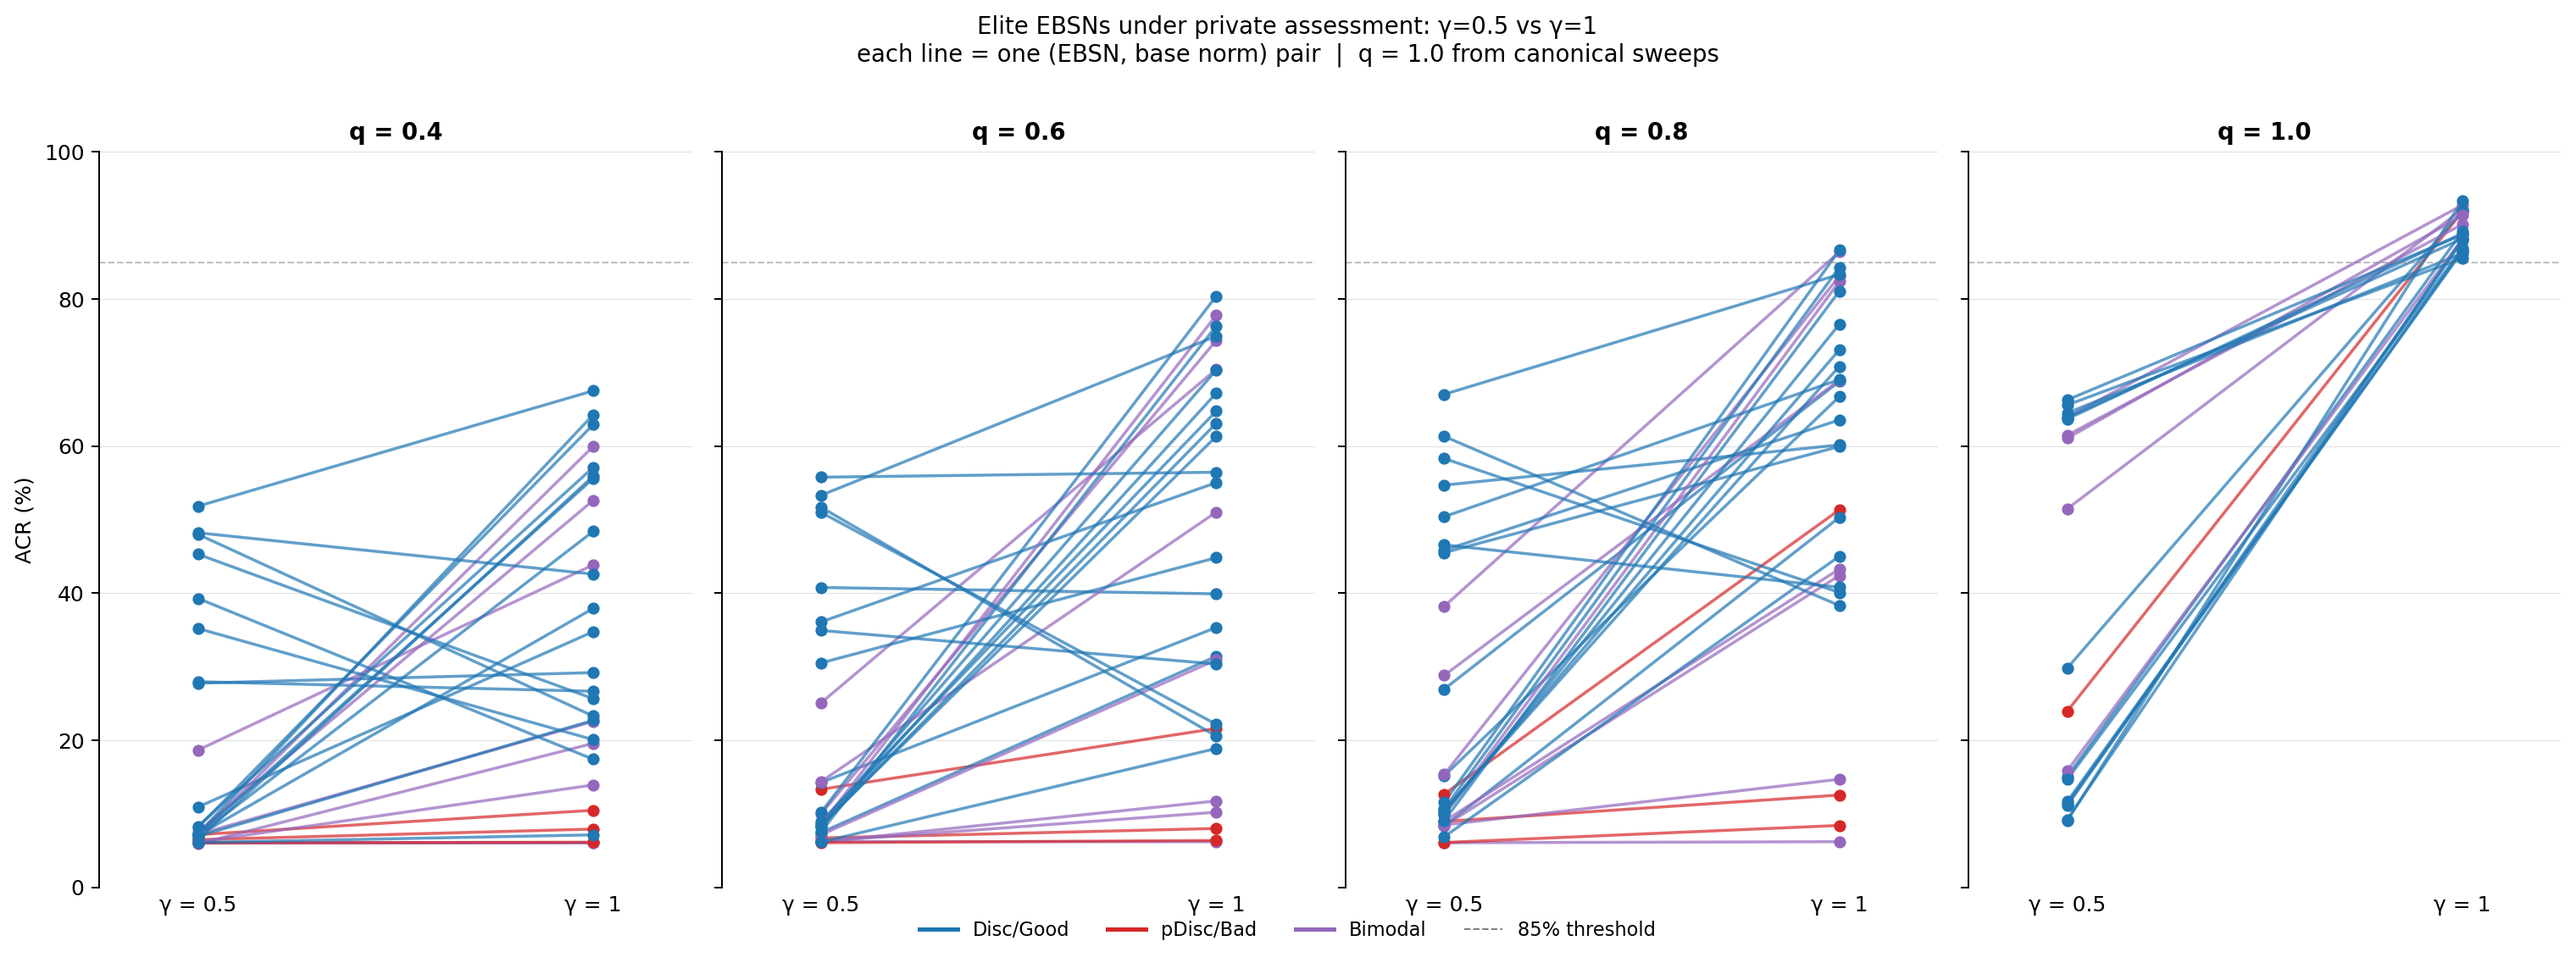
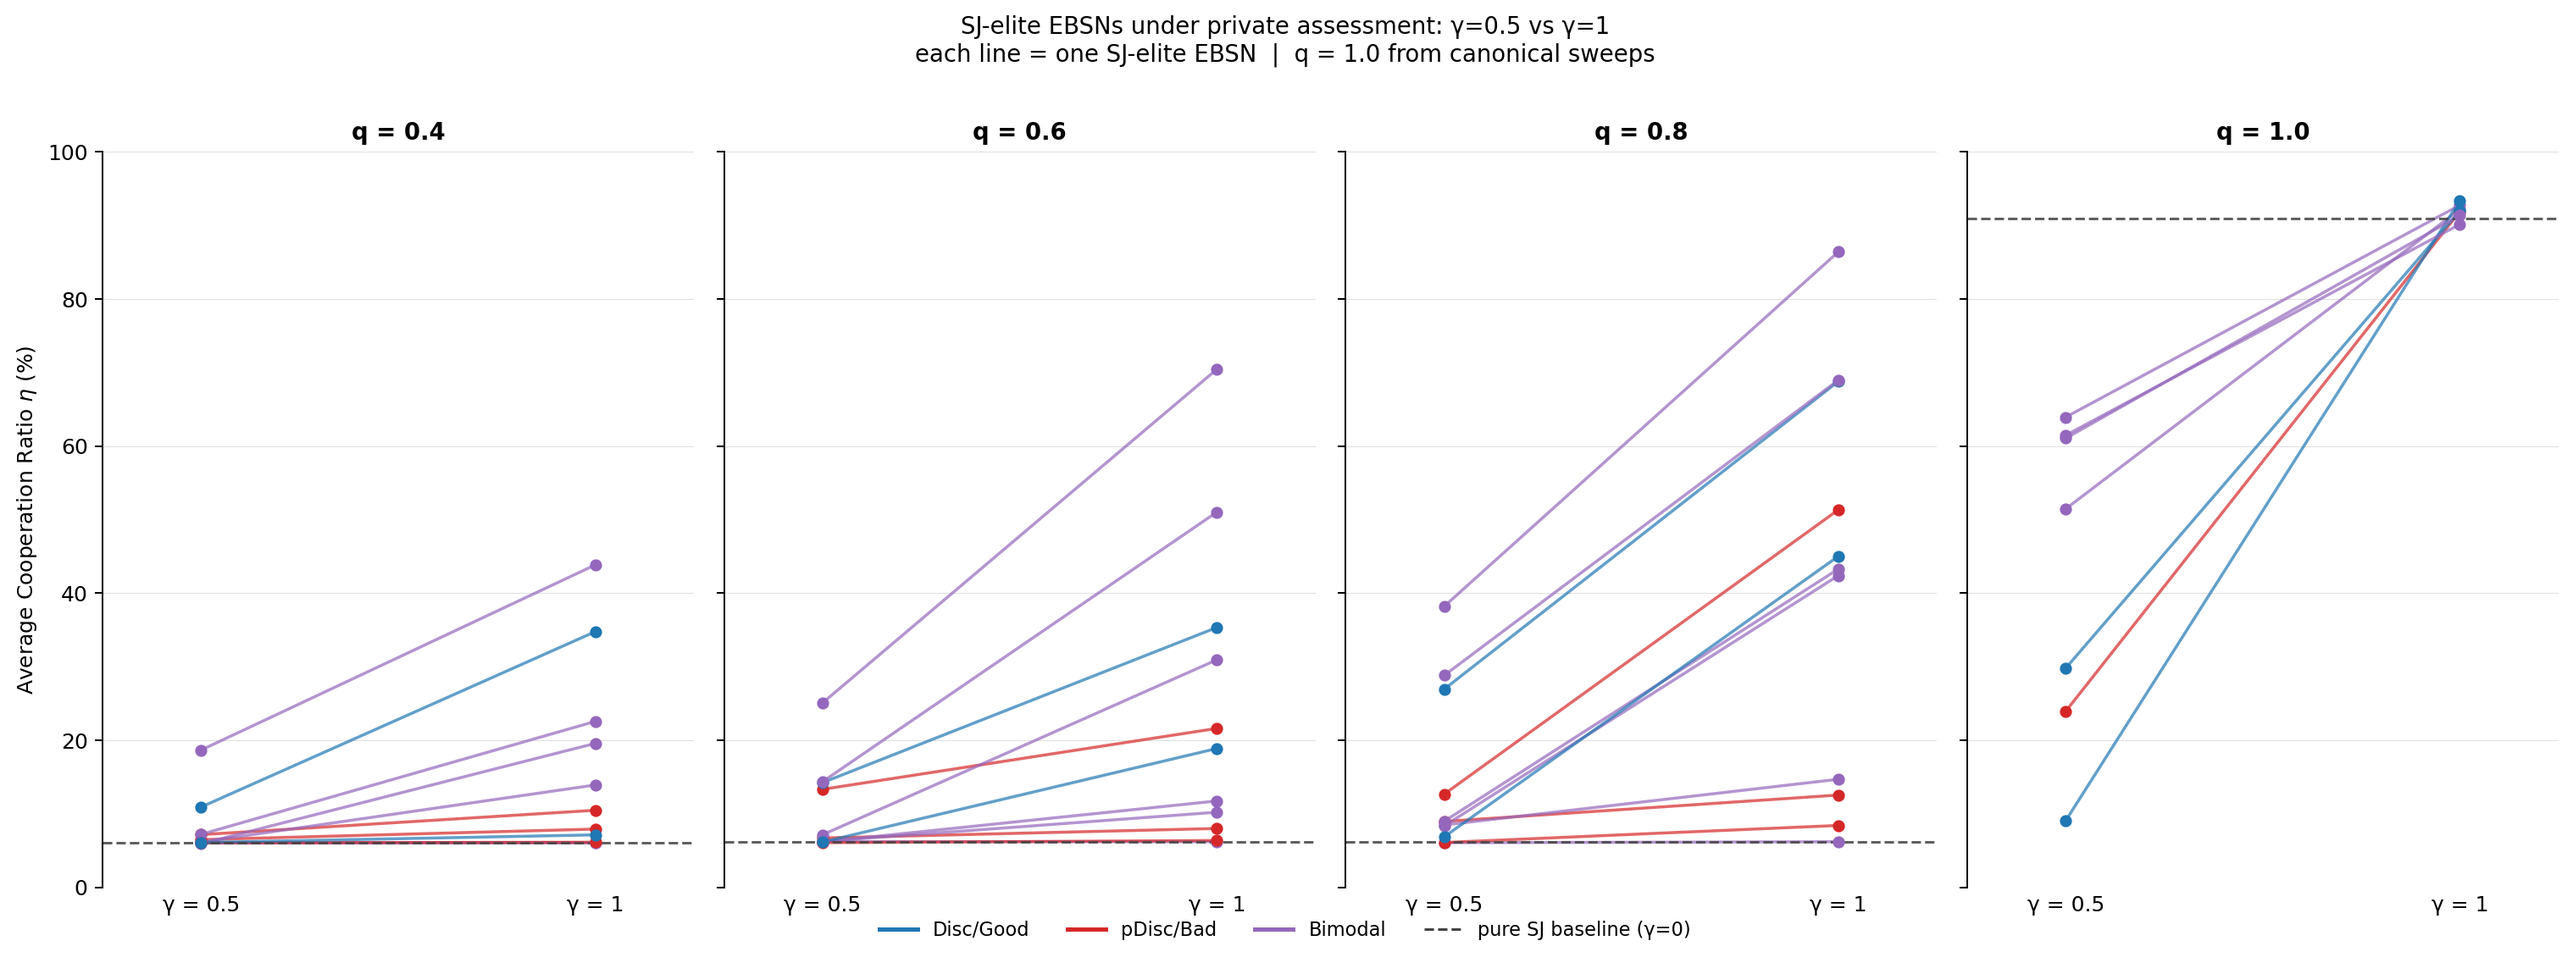
automatic update

diff --git a/plotting/private_assessment_plots.py b/plotting/private_assessment_plots.py
@@ -133,6 +133,26 @@ def load_q1_data(et: pd.DataFrame) -> pd.DataFrame:
     return pd.DataFrame(rows)
 
 
+def load_sj_baseline() -> dict[float, float]:
+    """Mean ACR (%) of pure Stern Judging (gamma=0) under private assessment, per q.
+
+    Produced by inputs/sj_baseline_private_assessment.yaml. This is the
+    reference curve that replaces the old flat 85% guide line: it shows SJ
+    alone collapsing as observability drops, motivating the Chapter 4.3 model.
+    """
+    path = OUTPUTS_DIR / "sj_baseline_private_assessment.csv"
+    if not path.exists():
+        print(f"WARNING: SJ baseline not found at {path} — run "
+              "`python SNARE.py inputs/sj_baseline_private_assessment.yaml` first.")
+        return {}
+    raw = pd.read_csv(path)
+    raw = raw[raw["q"] != "q"].copy()   # drop any repeated header rows
+    for col in ["q", "average_cooperation"]:
+        raw[col] = pd.to_numeric(raw[col], errors="coerce")
+    raw = raw.dropna(subset=["q", "average_cooperation"])
+    return raw.groupby("q")["average_cooperation"].mean().to_dict()
+
+
 def aggregate(df: pd.DataFrame) -> pd.DataFrame:
     return (
         df.groupby(
@@ -145,7 +165,7 @@ def aggregate(df: pd.DataFrame) -> pd.DataFrame:
 
 # ── Figure 1: Three-panel slopegraph ─────────────────────────────────────────
 
-def make_slopegraph(agg: pd.DataFrame) -> plt.Figure:
+def make_slopegraph(agg: pd.DataFrame, baseline: dict[float, float]) -> plt.Figure:
     """γ=0.5 → γ=1 slopegraph at each q level (4 columns, including q=1)."""
     fig, axes = plt.subplots(1, 4, figsize=(17, 6), sharey=True)
     fig.subplots_adjust(wspace=0.08)
@@ -172,13 +192,15 @@ def make_slopegraph(agg: pd.DataFrame) -> plt.Figure:
         ax.set_xticklabels(["γ = 0.5", "γ = 1"], fontsize=10)
         ax.set_xlim(-0.25, 1.25)
         ax.set_title(f"q = {q}", fontsize=11, fontweight="bold")
-        ax.axhline(85, color="grey", lw=0.8, ls="--", alpha=0.5)
+        base = baseline.get(q)
+        if base is not None:
+            ax.axhline(base, color="#444444", lw=1.2, ls="--", alpha=0.85, zorder=2)
         ax.set_ylim(0, 100)
         ax.grid(axis="y", lw=0.4, alpha=0.4)
         ax.spines[["top", "right", "bottom"]].set_visible(False)
         ax.tick_params(axis="x", length=0)
 
-    axes[0].set_ylabel("ACR (%)", fontsize=10)
+    axes[0].set_ylabel(r"Average Cooperation Ratio $\eta$ (%)", fontsize=10)
 
     # Legend
     handles = [
@@ -186,14 +208,15 @@ def make_slopegraph(agg: pd.DataFrame) -> plt.Figure:
         for eq in EQUIL_ORDER if eq in EQUIL_COLOURS
     ]
     handles.append(
-        mlines.Line2D([], [], color="grey", lw=0.8, ls="--", label="85% threshold")
+        mlines.Line2D([], [], color="#444444", lw=1.2, ls="--",
+                      label="pure SJ baseline (γ=0)")
     )
     fig.legend(handles=handles, loc="lower center", ncol=4,
                fontsize=9, frameon=False, bbox_to_anchor=(0.5, -0.02))
 
     fig.suptitle(
-        "Elite EBSNs under private assessment: γ=0.5 vs γ=1\n"
-        "each line = one (EBSN, base norm) pair  |  q = 1.0 from canonical sweeps",
+        "SJ-elite EBSNs under private assessment: γ=0.5 vs γ=1\n"
+        "each line = one SJ-elite EBSN  |  q = 1.0 from canonical sweeps",
         fontsize=11, y=1.01,
     )
     fig.tight_layout()
@@ -202,7 +225,7 @@ def make_slopegraph(agg: pd.DataFrame) -> plt.Figure:
 
 # ── Figure 2: Robustness line plot ───────────────────────────────────────────
 
-def make_robustness_plot(agg: pd.DataFrame) -> plt.Figure:
+def make_robustness_plot(agg: pd.DataFrame, baseline: dict[float, float]) -> plt.Figure:
     """ACR vs q per equilibrium type; solid = γ=1, dashed = γ=0.5."""
     n_eq  = len(EQUIL_ORDER)
     fig, axes = plt.subplots(1, n_eq, figsize=(13, 5), sharey=True)
@@ -211,6 +234,9 @@ def make_robustness_plot(agg: pd.DataFrame) -> plt.Figure:
     ls_map = {0.5: "--", 1.0: "-"}
     lw_ind = 0.9   # individual EBSN lines
     lw_avg = 2.5   # group mean
+
+    base_q   = sorted(baseline)
+    base_acr = [baseline[q] for q in base_q]
 
     for ax, eq in zip(axes, EQUIL_ORDER):
         col = EQUIL_COLOURS.get(eq, "#888888")
@@ -241,25 +267,31 @@ def make_robustness_plot(agg: pd.DataFrame) -> plt.Figure:
         ax.set_xticks([0.4, 0.6, 0.8, 1.0])
         ax.set_xlim(0.33, 1.07)
         ax.set_ylim(0, 100)
-        ax.axhline(85, color="grey", lw=0.8, ls=":", alpha=0.5)
+        if base_q:
+            ax.plot(base_q, base_acr, color="#444444", lw=1.6, ls=":",
+                    alpha=0.9, zorder=2)
+        ax.axhline(85, color="#888888", lw=1.0, ls="-.", alpha=0.7, zorder=2)
         ax.grid(axis="y", lw=0.4, alpha=0.4)
         ax.spines[["top", "right"]].set_visible(False)
 
-    axes[0].set_ylabel("ACR (%)", fontsize=10)
+    axes[0].set_ylabel(r"Average Cooperation Ratio $\eta$ (%)", fontsize=10)
 
     # Legend (one shared)
     solid  = mlines.Line2D([], [], color="grey", lw=2,   ls="-",  label="γ = 1")
     dashed = mlines.Line2D([], [], color="grey", lw=2,   ls="--", label="γ = 0.5")
-    thresh = mlines.Line2D([], [], color="grey", lw=0.8, ls=":",  label="85% threshold")
+    thresh = mlines.Line2D([], [], color="#444444", lw=1.6, ls=":",
+                           label="pure SJ baseline (γ=0)")
+    elite  = mlines.Line2D([], [], color="#888888", lw=1.0, ls="-.",
+                           alpha=0.7, label="elite threshold (85%)")
     fig.legend(
-        handles=[solid, dashed, thresh],
-        loc="lower center", ncol=3, fontsize=9,
+        handles=[solid, dashed, thresh, elite],
+        loc="lower center", ncol=4, fontsize=9,
         frameon=False, bbox_to_anchor=(0.5, -0.04),
     )
 
     fig.suptitle(
-        "Robustness of elite EBSNs under private assessment\n"
-        "thin = individual (EBSN, base norm) · thick = group mean",
+        "Robustness of SJ-elite EBSNs under private assessment\n"
+        "thin = individual EBSN · thick = group mean",
         fontsize=11, y=1.01,
     )
     fig.tight_layout()
@@ -270,32 +302,44 @@ def make_robustness_plot(agg: pd.DataFrame) -> plt.Figure:
 
 def main() -> None:
     df  = load_data()
+
+    # Restrict to EBSNs that are elite specifically under Stern Judging.
+    # Narrative: SJ fails under private assessment — we ask whether emotion
+    # helps in that regime, so the only relevant norms are SJ-elite ones.
+    df = df[df["base_norm"] == "Stern Judging"].copy()
+
     agg = aggregate(df)
 
-    # Append q=1 canonical data
+    # Append q=1 canonical data (SJ only)
     et = pd.read_csv(
         Path(__file__).parent / "plots" / "elite_table.csv",
         dtype={"8bit": str},
     )
     et["8bit"] = et["8bit"].str.zfill(8)
-    q1  = load_q1_data(et)
+    et_sj = et[et["base_norm"] == "Stern Judging"]
+    q1  = load_q1_data(et_sj)
+    q1  = q1[q1["base_norm"] == "Stern Judging"].copy()
     agg = pd.concat([agg, q1], ignore_index=True)
 
-    print(f"Loaded {len(df)} runs, {agg['label'].nunique()} unique EBSNs across "
-          f"{agg['base_norm'].nunique()} base norms")
-    print("Equilibrium counts (unique EBSN×base pairs):")
-    print(agg[["label","base_norm","equilibrium"]].drop_duplicates()
+    print(f"Loaded {len(df)} runs (SJ-elite only), {agg['label'].nunique()} unique EBSNs")
+    print("Equilibrium counts (unique EBSN pairs):")
+    print(agg[["label","equilibrium"]].drop_duplicates()
           ["equilibrium"].value_counts().to_string())
+
+    baseline = load_sj_baseline()
+    if baseline:
+        print("Pure-SJ baseline ACR (%) by q: "
+              + ", ".join(f"{q}: {baseline[q]:.1f}" for q in sorted(baseline)))
 
     PLOTS_DIR.mkdir(parents=True, exist_ok=True)
 
-    fig1 = make_slopegraph(agg)
+    fig1 = make_slopegraph(agg, baseline)
     p1   = PLOTS_DIR / "private_assessment_slopegraph.png"
     fig1.savefig(p1, dpi=180, bbox_inches="tight")
     plt.close(fig1)
     print(f"Saved: {p1}")
 
-    fig2 = make_robustness_plot(agg)
+    fig2 = make_robustness_plot(agg, baseline)
     p2   = PLOTS_DIR / "private_assessment_robustness.png"
     fig2.savefig(p2, dpi=180, bbox_inches="tight")
     plt.close(fig2)

diff --git a/plotting/slope_plots.py b/plotting/slope_plots.py
@@ -171,6 +171,7 @@ def plot_slope(
     *,
     color_by: str = "cooperative",
     threshold: float = THRESHOLD,
+    sj_baseline: float | None = None,
     ax: plt.Axes | None = None,
     figsize: tuple[float, float] = (5.5, 4.5),
     legend_loc: str = "upper left",
@@ -225,14 +226,24 @@ def plot_slope(
         ax.scatter([GAMMA_RIGHT], [row[GAMMA_RIGHT]],
                    color=colour, s=48, alpha=1.0, edgecolors="white", linewidths=0.5, zorder=5)
 
-    # 5) Baseline reference line
+    # 5) Baseline reference lines
+    # (a) SJ public-info benchmark: the flagship ceiling, shown in every panel
+    #     so the "no EBSN beats SJ under public info" claim is visually explicit
+    #     (mirrors the pure-SJ baseline used in the private-assessment figures).
+    if sj_baseline is not None:
+        ax.axhline(sj_baseline, linestyle="--", linewidth=1.3,
+                   color="#444444", alpha=0.9, zorder=3)
+        ax.text(GAMMA_RIGHT + 0.015, sj_baseline,
+                f"SJ benchmark\nACR={sj_baseline:.2f}",
+                ha="left", va="center", fontsize=6.5, color="#444444")
+    # (b) This panel's own base-norm baseline (omitted when it ~coincides with SJ)
     baseline = _get_baseline_acr(base_norm)
-    if baseline is not None:
-        ax.axhline(baseline, linestyle="--", linewidth=1.1,
-                   color="#444444", alpha=0.85, zorder=3)
+    if baseline is not None and (sj_baseline is None or abs(baseline - sj_baseline) > 0.03):
+        ax.axhline(baseline, linestyle=":", linewidth=1.0,
+                   color="#999999", alpha=0.85, zorder=3)
         ax.text(GAMMA_RIGHT + 0.015, baseline,
                 f"baseline\nACR={baseline:.2f}",
-                ha="left", va="center", fontsize=6.5, color="#444444")
+                ha="left", va="center", fontsize=6.0, color="#999999")
 
     # Stats
     n_elite_lines = int((has_both & is_elite).sum())
@@ -289,9 +300,11 @@ def plot_combined(
     fig, axes = plt.subplots(2, 2, figsize=figsize)
     order = ["Stern Judging", "Simple Standing", "Shunning", "Image Scoring"]
     legend_locs = {"Stern Judging": "lower right"}
+    sj_baseline = _get_baseline_acr("Stern Judging")
     for ax, norm in zip(axes.flat, order):
         wide = aggregate_for_slope(sweeps[norm])
-        plot_slope(wide, norm, color_by=color_by, threshold=threshold, ax=ax,
+        plot_slope(wide, norm, color_by=color_by, threshold=threshold,
+                   sj_baseline=sj_baseline, ax=ax,
                    legend_loc=legend_locs.get(norm, "upper left"))
     fig.suptitle(
         f"EB-norm extensions: ACR from $\\gamma$={GAMMA_LEFT} to $\\gamma$={GAMMA_RIGHT}"
@@ -338,7 +351,8 @@ def main() -> None:
 
     if args.norm:
         wide = aggregate_for_slope(sweeps[args.norm])
-        fig  = plot_slope(wide, args.norm, color_by=args.color, threshold=args.threshold)
+        fig  = plot_slope(wide, args.norm, color_by=args.color, threshold=args.threshold,
+                          sj_baseline=_get_baseline_acr("Stern Judging"))
         safe = args.norm.lower().replace(" ", "_")
         save_figure(fig, PLOTS_DIR / f"slope_{safe}_{args.color}.png")
     else:

diff --git a/plotting/ebsn_semantic_canonical_plots.py b/plotting/ebsn_semantic_canonical_plots.py
@@ -129,6 +129,8 @@ means = [sum(v) / len(v) for v in ([x for x in vb if x is not None] for vb in pe
 lo = [min(x for x in vb if x is not None) for vb in per_base]
 hi = [max(x for x in vb if x is not None) for vb in per_base]
 
+MARKERS = {"SJ": "o", "IS": "s", "SH": "^", "SS": "D"}
+
 fig, ax = plt.subplots(figsize=(11.5, 5.6))
 x = list(range(8))
 for i in x:
@@ -140,10 +142,10 @@ for i in x:
     ax.bar(i, m, 0.62, color=fc, hatch=hatch, edgecolor="white", zorder=2)
     ax.errorbar(i, m, yerr=[[m - lo[i]], [hi[i] - m]], fmt="none",
                 ecolor="#333333", capsize=5, lw=1.4, zorder=3)
-    # individual base-norm points
-    for v in per_base[i]:
+    # individual base-norm points, shaped by base norm
+    for base, v in zip(bases, per_base[i]):
         if v is not None:
-            ax.plot(i, v, "o", ms=4.5, color="#222222",
+            ax.plot(i, v, MARKERS[base], ms=5.5, color="#222222",
                     markerfacecolor="white", zorder=4)
     ax.text(i, hi[i] + 1.8 if m > 0 else lo[i] - 1.8, f"{m:+.1f}",
             ha="center", va=("bottom" if m > 0 else "top"),
@@ -156,15 +158,20 @@ ax.set_xticklabels([f"{LAB[i]}\n{SEM[i]}" for i in x], fontsize=8)
 ax.set_ylabel("$\\Delta\\eta$ (assign Good $-$ assign Bad), %")
 ax.set_title("Effect of each moral verdict on cooperation, stratified by base norm "
              "($\\gamma=1$)\n"
-             "bar = mean across the 4 base norms; whisker = range; dots = individual base norms; "
+             "bar = mean across the 4 base norms; whisker = range; "
              "grey/hatched = sign flips across bases (not robust)", fontsize=9.5)
 ax.margins(y=0.18)
-# legend proxies
+# legend
 from matplotlib.patches import Patch
+from matplotlib.lines import Line2D
 ax.legend(handles=[
     Patch(facecolor=TEAL, label="robustly rewarded (Good $\\uparrow$ coop)"),
     Patch(facecolor=CORAL, label="robustly penalised (Bad $\\uparrow$ coop)"),
     Patch(facecolor="#cccccc", hatch="////", label="sign flips across base norms"),
+] + [
+    Line2D([0], [0], marker=MARKERS[b], color="#222222", markerfacecolor="white",
+           ms=5.5, linestyle="none", label=b)
+    for b in ["SJ", "IS", "SH", "SS"]
 ], loc="lower left", fontsize=8, framealpha=0.95)
 fig.tight_layout()
 fig.savefig(PLOTS / "ebsn_delta_eta_canonical.png", dpi=170, bbox_inches="tight")

diff --git a/SNARE.py b/SNARE.py
@@ -18,6 +18,7 @@ import itertools
 import plotly.graph_objects as go
 from plotly.subplots import make_subplots
 
+
 def safe_print(obj):
     """Print an object, writing UTF-8 directly to stdout.buffer to bypass Windows cp1252 codec issues."""
     text = str(obj) + "\n"
